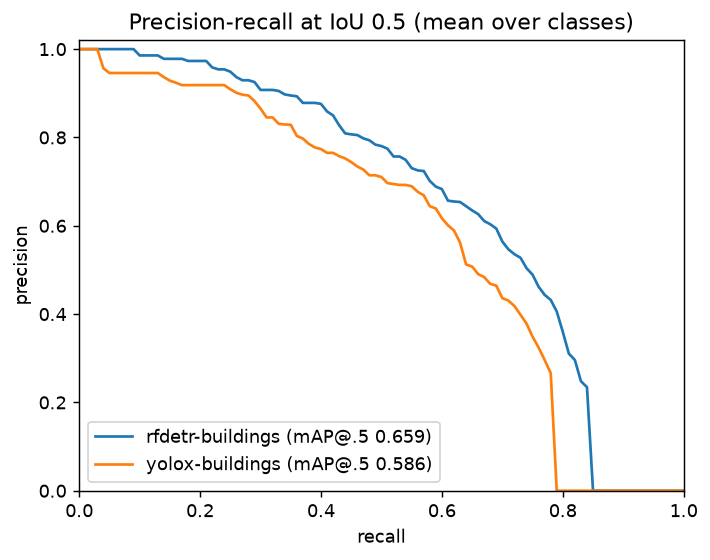
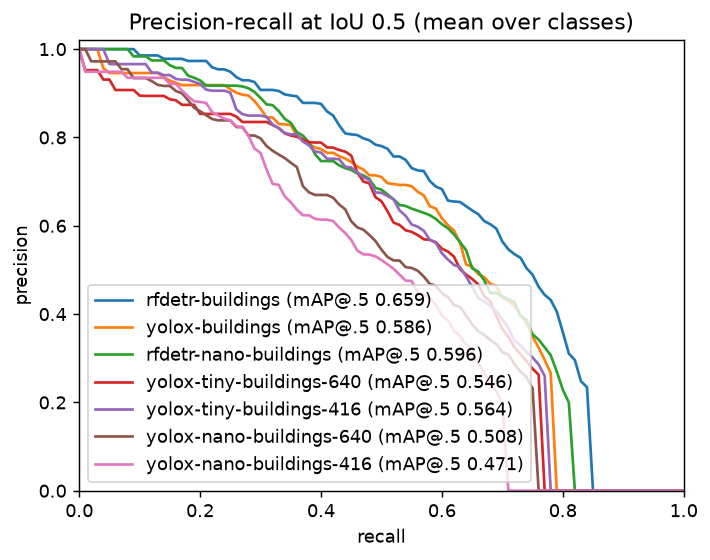
L3: SpaceNet fine-tunes and verdict for the lightweight models; L6 planned (#20)
* L3: SpaceNet fine-tunes of tiny, nano and RF-DETR Nano; verdict; L6 (publishing) planned

Claude-Session: https://claude.ai/code/session_01Xkm7aLAijmSFtDHZcGB5nX

* ADR-0014: L3 verdict

Claude-Session: https://claude.ai/code/session_01Xkm7aLAijmSFtDHZcGB5nX

Changed region(s): [[0.093, 0.0607, 0.9606, 0.8804], [0.1239, 0.8196, 0.1859, 0.85]]

diff --git a/stages/detector/backends.py b/stages/detector/backends.py
@@ -64,18 +64,17 @@ def load_yolox_backend(device: str, variant: str = "s") -> Backend:
     return load_yolox(device, f"/models/yolox_{variant}.onnx")
 
 
-def load_yolox_buildings(device: str) -> Backend:
-    """YOLOX-s fine-tuned on SpaceNet buildings (`make train-yolox`), exported to ONNX."""
+def load_yolox_buildings(device: str, run: str = "yolox-spacenet") -> Backend:
+    """A YOLOX fine-tuned on SpaceNet buildings (`make train-yolox`), exported to ONNX."""
     from yolox_onnx import load_yolox
 
-    return load_yolox(device, os.environ.get(
-        "YOLOX_BUILDINGS_ONNX", "/weights/yolox-spacenet/yolox_buildings.onnx"), ["building"])
+    return load_yolox(device, f"/weights/{run}/yolox_buildings.onnx", ["building"])
 
 
-def load_rfdetr_buildings(device: str) -> Backend:
-    """RF-DETR Small fine-tuned on SpaceNet buildings (`make train-rfdetr`)."""
-    return load_rfdetr(device, os.environ.get(
-        "RFDETR_BUILDINGS_WEIGHTS", "/weights/rfdetr-spacenet/checkpoint_best_total.pth"))
+def load_rfdetr_buildings(device: str, run: str = "rfdetr-spacenet",
+                          size: str = "Small") -> Backend:
+    """An RF-DETR fine-tuned on SpaceNet buildings (`make train-rfdetr`)."""
+    return load_rfdetr(device, f"/weights/{run}/checkpoint_best_total.pth", size)
 
 
 # Factories taking the device, so a backend is only loaded (and its dependencies imported)
@@ -83,6 +82,7 @@ def load_rfdetr_buildings(device: str) -> Backend:
 BACKENDS: dict[str, Callable[[str], Backend]] = {
     "stub": lambda device: stub_detect, "rfdetr": load_rfdetr, "yolox": load_yolox_backend,
     "rfdetr-nano": lambda device: load_rfdetr(device, size="Nano"),
-    "yolox-nano": lambda device: load_yolox_backend(device, "nano"),
     "yolox-tiny": lambda device: load_yolox_backend(device, "tiny"),
-    "rfdetr-buildings": load_rfdetr_buildings, "yolox-buildings": load_yolox_buildings}
+    "rfdetr-buildings": load_rfdetr_buildings, "yolox-buildings": load_yolox_buildings,
+    "rfdetr-nano-buildings": lambda d: load_rfdetr_buildings(d, "rfdetr-spacenet-nano", "Nano"),
+    "yolox-tiny-buildings": lambda d: load_yolox_buildings(d, "yolox-spacenet-tiny-416")}

diff --git a/scripts/yolox_exp.py b/scripts/yolox_exp.py
@@ -1,4 +1,7 @@
-"""YOLOX-s experiment for SpaceNet buildings (one class), used by `make train-yolox`.
+"""YOLOX experiment for SpaceNet buildings (one class), used by `make train-yolox`.
+
+`YOLOX_VARIANT` (s, tiny) and `YOLOX_SIZE` (input pixels) pick the model; the shapes
+are those of the official experiment files. Output goes to `<out>/yolox-spacenet[-variant-size]`.
 
 YOLOX reads `<data_dir>/train2017`, `<data_dir>/val2017` and `<data_dir>/annotations/*.json`,
 so this builds that layout from the COCO files of `geopipe spacenet-prepare` with symlinks.
@@ -12,15 +15,26 @@ from yolox.exp import Exp as BaseExp
 
 SRC = os.environ.get("SPACENET_COCO", "/data/spacenet/coco")
 STAGE = "/tmp/yolox_data"
+VARIANT = os.environ.get("YOLOX_VARIANT", "s")
+SIZE = int(os.environ.get("YOLOX_SIZE", "640"))
+SHAPES = {"s": (0.33, 0.50), "tiny": (0.33, 0.375)}  # depth, width
+
+
+EXP_NAME = "yolox-spacenet" + ("" if (VARIANT, SIZE) == ("s", 640) else f"-{VARIANT}-{SIZE}")
 
 
 class Exp(BaseExp):
     def __init__(self):
         super().__init__()
-        self.depth, self.width, self.num_classes = 0.33, 0.50, 1  # YOLOX-s
+        self.depth, self.width = SHAPES[VARIANT]
+        self.num_classes = 1
+        self.input_size = self.test_size = (SIZE, SIZE)
+        self.random_size = (SIZE // 32 - 4, SIZE // 32 + 4)  # multi-scale range, in strides
+        if VARIANT != "s":  # augmentation of the official tiny experiment
+            self.mosaic_scale, self.enable_mixup = (0.5, 1.5), False
         self.max_epoch, self.no_aug_epochs, self.eval_interval = 60, 10, 5
         self.data_dir, self.train_ann, self.val_ann = STAGE, "train.json", "valid.json"
-        self.exp_name = "yolox-spacenet"
+        self.exp_name = EXP_NAME
         self.output_dir = os.environ.get("YOLOX_OUT", "/data/models")
         shutil.rmtree(STAGE, ignore_errors=True)
         os.makedirs(f"{STAGE}/annotations")

diff --git a/scripts/train_rfdetr.py b/scripts/train_rfdetr.py
@@ -1,4 +1,4 @@
-"""Fine-tune RF-DETR Small on the SpaceNet COCO files from `make spacenet-data`.
+"""Fine-tune RF-DETR (Small or Nano) on the SpaceNet COCO files from `make spacenet-data`.
 
 Run it in the GPU detector image (see `make train-rfdetr`). Weights are written to
 `<out>/checkpoint_best_total.pth`.
@@ -6,18 +6,20 @@ Run it in the GPU detector image (see `make train-rfdetr`). Weights are written 
 
 import argparse
 
-from rfdetr import RFDETRSmall
+import rfdetr
 
 
 def main() -> None:
     p = argparse.ArgumentParser()
     p.add_argument("--data", default="/data/spacenet/coco")
-    p.add_argument("--out", default="/data/models/rfdetr-spacenet")
+    p.add_argument("--variant", default="Small", choices=["Small", "Nano"])
+    p.add_argument("--out")
     p.add_argument("--epochs", type=int, default=20)
     p.add_argument("--batch-size", type=int, default=8)
     a = p.parse_args()
-    model = RFDETRSmall()
-    model.train(dataset_dir=a.data, output_dir=a.out, epochs=a.epochs, batch_size=a.batch_size,
+    out = a.out or "/data/models/rfdetr-spacenet" + ("-nano" if a.variant == "Nano" else "")
+    model = getattr(rfdetr, f"RFDETR{a.variant}")()
+    model.train(dataset_dir=a.data, output_dir=out, epochs=a.epochs, batch_size=a.batch_size,
                 class_names=["building"], tensorboard=False)
 
 

diff --git a/scripts/export_yolox_onnx.py b/scripts/export_yolox_onnx.py
@@ -1,4 +1,4 @@
-"""Export a fine-tuned YOLOX checkpoint to ONNX with the raw head output (1, 8400, 5 + classes).
+"""Export a fine-tuned YOLOX checkpoint to ONNX with the raw head output (1, anchors, 5 + classes).
 
 YOLOX's own exporter calls `torch.onnx._export`, which current torch no longer has. The decode
 (grid offsets, NMS) stays outside the graph, in stages/detector/yolox_onnx.py.
@@ -16,11 +16,12 @@ def main() -> None:
     p.add_argument("ckpt")
     p.add_argument("out")
     a = p.parse_args()
-    model = get_exp(a.exp, None).get_model()
+    exp = get_exp(a.exp, None)
+    model = exp.get_model()
     model.load_state_dict(torch.load(a.ckpt, map_location="cpu", weights_only=False)["model"])
     model.eval()
     model.head.decode_in_inference = False
-    torch.onnx.export(model, torch.zeros(1, 3, 640, 640), a.out, input_names=["images"],
+    torch.onnx.export(model, torch.zeros(1, 3, *exp.test_size), a.out, input_names=["images"],
                       output_names=["output"], opset_version=17, dynamo=False)
 
 

diff --git a/stages/detector/main.py b/stages/detector/main.py
@@ -32,7 +32,7 @@ def detect_tile(r, s3, backends: dict[str, Backend], tile: Tile) -> None:
 
 if __name__ == "__main__":
     logging.basicConfig(level=logging.INFO)
-    default = "stub,rfdetr,yolox,yolox-tiny,yolox-nano,rfdetr-nano"
+    default = "stub,rfdetr,yolox,yolox-tiny,rfdetr-nano"
     names = os.environ.get("DETECTOR_MODELS", default).split(",")
     unknown = [n for n in names if n not in BACKENDS]
     if unknown:

diff --git a/tests/stack/test_stack.py b/tests/stack/test_stack.py
@@ -61,7 +61,7 @@ def test_round_trip_boxes_land_on_the_drawn_rectangles(stack):
             f.write(body)
 
 
-@pytest.mark.parametrize("model", ["rfdetr", "yolox", "yolox-tiny", "yolox-nano", "rfdetr-nano"])
+@pytest.mark.parametrize("model", ["rfdetr", "yolox", "yolox-tiny", "rfdetr-nano"])
 def test_each_model_finds_both_cats_in_a_real_photo(stack, model):
     r, s3, _ = stack
     key = upload_photo_tif(s3)

diff --git a/docs/benchmarks/spacenet-khartoum.md b/docs/benchmarks/spacenet-khartoum.md
@@ -1,9 +1,26 @@
-# SpaceNet Khartoum buildings: fine-tuned RF-DETR Small and YOLOX-s
+# SpaceNet Khartoum buildings: fine-tuned RF-DETR, YOLOX and their lightweight variants
 
-| model | mAP@[.5:.95] | mAP@.5 | AR@100 | P@.5 | R@.5 | F1@.5 | median latency s/img | mean detect s/img (4 tiles) | detections |
+Held-out 30 tiles, 510 buildings, CPU detector, one worker, run 2026-11-14 (L3, ADR-0014). "detect s/img" is the model's time for one 650 px image, which is 4 tiles.
+
+| model | mAP@[.5:.95] | mAP@.5 | AR@100 | P@.5 | R@.5 | F1@.5 | detect s/img, 4 threads | detect s/img, 1 thread | detections |
 |---|---|---|---|---|---|---|---|---|---|
-| rfdetr-buildings | 0.327 | 0.659 | 0.485 | 0.627 | 0.657 | 0.642 | 1.07 | 0.85 | 7794 |
-| yolox-buildings | 0.303 | 0.586 | 0.467 | 0.689 | 0.551 | 0.612 | 0.61 | 0.31 | 1922 |
+| rfdetr-buildings (Small) | 0.327 | 0.659 | 0.485 | 0.627 | 0.657 | 0.642 | 0.85 | 2.47 | 7795 |
+| rfdetr-nano-buildings | 0.294 | 0.596 | 0.452 | 0.624 | 0.582 | 0.602 | 0.47 | 1.31 | 8955 |
+| yolox-buildings (s, 640) | 0.303 | 0.586 | 0.467 | 0.689 | 0.551 | 0.612 | 0.31 | 0.94 | 1922 |
+| yolox-tiny-buildings-640 | 0.280 | 0.546 | 0.449 | 0.632 | 0.512 | 0.566 | 0.19 | 0.58 | 1818 |
+| yolox-tiny-buildings-416 | 0.270 | 0.564 | 0.436 | 0.712 | 0.465 | 0.562 | 0.10 | 0.25 | 2006 |
+| yolox-nano-buildings-640 | 0.247 | 0.508 | 0.426 | 0.667 | 0.412 | 0.509 | 0.07 | 0.15 | 2100 |
+| yolox-nano-buildings-416 | 0.209 | 0.471 | 0.370 | 0.622 | 0.375 | 0.468 | 0.05 | 0.08 | 2880 |
+
+The model names are those of the benchmark run; only `yolox-tiny-buildings` (the 416 variant) and `rfdetr-nano-buildings` are kept as backends, see "Verdict".
+
+## Verdict (ADR-0014 bar: at least 90% of YOLOX-s's mAP@.5, so 0.527 or more, and at least 2x faster)
+
+- YOLOX-tiny at 416 px passes: 0.564 mAP@.5 and 3.1x (4 threads) to 3.8x (1 thread) faster than YOLOX-s. Kept as `yolox-tiny-buildings`.
+- YOLOX-tiny at 640 px has 0.546 but is only 1.6x faster. Dropped; at 416 px it is both faster and has the higher mAP@.5 (it is lower on mAP@[.5:.95], 0.270 against 0.280).
+- YOLOX-nano misses on accuracy at both sizes (0.508 and 0.471; recall 0.41 and 0.38). Dropped, along with its COCO backend.
+- RF-DETR Nano passes on accuracy (0.596, above YOLOX-s's 0.586) but is slower than YOLOX-s (0.47 against 0.31 s/img), so it fails the speed half of a bar written against YOLOX-s. It is 1.8x faster than RF-DETR Small at 90% of its mAP@.5 and is kept for now as the quality-leaning small model; whether it stays is an open decision.
+- End to end through the whole pipeline (one detector, 4 threads, 48-tile mosaic, so including the slicer and postprocess): YOLOX-s 10.1 tiles/s, YOLOX-tiny 416 18.6, RF-DETR Nano 7.1, RF-DETR Small 3.4.
 
 - Detections were collected at confidence >= 0.05 (needed for mAP). P, R and F1 use detections
   with score >= 0.5 and IoU >= 0.5.
@@ -17,6 +34,7 @@
 ## How this was produced
 
 - Data: 300 tiles of SpaceNet 2 AOI 5 (Khartoum), 650x650 16-bit PS-RGB, split by tile number into 240 train, 30 valid and 30 test (`make spacenet-data`). Test is the 30 held-out tiles scored above, 510 buildings.
+- RF-DETR Nano: `make train-rfdetr VARIANT=Nano`, same settings as Small. YOLOX-tiny and -nano: `make train-yolox VARIANT=tiny|nano SIZE=416|640`, same recipe as YOLOX-s with the augmentation of the official tiny and nano experiments (mosaic scale 0.5 to 1.5, no mixup), 60 epochs, about 9 to 12 minutes each. The nano variant is no longer supported by the scripts.
 - RF-DETR Small: `make train-rfdetr`, from the COCO checkpoint, single class `building`, 30 epochs, batch size 8, about 7 minutes on the RTX 3080 Ti Laptop. Best validation mAP (EMA weights) 0.242.
 - YOLOX-s: `make train-yolox`, YOLOX's own trainer from the COCO checkpoint, one class, 60 epochs (last 10 without mosaic), batch size 16, fp16, about 12 minutes. Validation AP@[.5:.95] about 0.24 at the end. Exported to ONNX (raw head, 1 class) and run by the same ONNX Runtime backend as the COCO model.
 - Scoring: `make bench-spacenet` runs the held-out GeoTIFFs through the whole pipeline (CPU detector, one image at a time) and scores the GeoJSON pixel boxes against boxes converted from the footprints. Both models see identical inputs.

diff --git a/README.md b/README.md
@@ -83,7 +83,7 @@ On a machine with an NVIDIA GPU and the NVIDIA container runtime, `make up-gpu` 
 
 CPU throughput: the detector uses `DETECTOR_THREADS` threads per worker (default 4; more was not faster on a 20-thread CPU), and `docker compose up -d --scale detector=2` runs replicas that share the tile stream. With a stub model on real imagery the pipeline went from 13.5 to 33.5 tiles/s with one detector and 48 with two, after the slicer started writing uncompressed PNG tiles and overlapping encode and upload ([ADR-0014](docs/adr/0014-lightweight-cpu-detector.md)). Do not scale the CPU and GPU detectors together.
 
-Lightweight models for CPU use: `yolox-tiny`, `yolox-nano` (ONNX Runtime, 416 px input) and `rfdetr-nano` are enabled by default beside `rfdetr` (the default choice) and `yolox`. On 200 COCO images, `rfdetr-nano` keeps most of RF-DETR Small's accuracy (mAP@.5 0.71 against 0.75) at about 1.8x the speed, while `yolox-tiny` and `yolox-nano` are 3.5x and 7x faster than `yolox` but lose 0.09 and 0.14 mAP@[.5:.95] ([report](docs/benchmarks/coco-val-200.md)). COCO is a sanity check only: which of them ship is decided on SpaceNet fine-tunes (slice L3 in [`docs/SLICES.md`](docs/SLICES.md)).
+Lightweight models for CPU use: `yolox-tiny` (ONNX Runtime, 416 px input) and `rfdetr-nano` are enabled by default beside `rfdetr` (the default choice) and `yolox`. Fine-tuned on SpaceNet buildings and run on 4 CPU threads, `yolox-tiny-buildings` reaches 0.56 mAP@.5 against 0.59 for `yolox-buildings` at about a third of the model time, and `rfdetr-nano-buildings` reaches 0.60 against 0.66 for `rfdetr-buildings` in about half. YOLOX-nano was tried and dropped: at 0.47 to 0.51 mAP@.5 it missed the bar. Details in [the SpaceNet report](docs/benchmarks/spacenet-khartoum.md) and [ADR-0014](docs/adr/0014-lightweight-cpu-detector.md).
 
 Duplicates across overlapping tiles are removed by class-wise NMS. An object larger than the overlap zone can still be split. Boxes only (no oriented boxes or segmentation).
 
@@ -93,14 +93,16 @@ Duplicates across overlapping tiles are removed by class-wise NMS. An object lar
 
 ### SpaceNet buildings (fine-tuned)
 
-`make spacenet-data` fetches 300 SpaceNet 2 Khartoum tiles (730 MB, CC BY-SA 4.0, kept out of git), `make train-rfdetr` and `make train-yolox` fine-tune on 240 of them on the GPU (about 7 and 12 minutes), and `make bench-spacenet` scores the other 30 through the full pipeline. The COCO weights score 0 here because they have no building class.
+`make spacenet-data` fetches 300 SpaceNet 2 Khartoum tiles (730 MB, CC BY-SA 4.0, kept out of git), `make train-rfdetr` and `make train-yolox` (`VARIANT=` picks the model size) fine-tune on 240 of them on the GPU (about 7 and 12 minutes), and `make bench-spacenet` scores the other 30 through the full pipeline. The COCO weights score 0 here because they have no building class.
 
-| model | mAP@[.5:.95] | mAP@.5 | F1@.5 | detector s/image (CPU) |
+| model | mAP@[.5:.95] | mAP@.5 | F1@.5 | detector s/image (CPU, 4 threads) |
 |---|---|---|---|---|
 | RF-DETR Small, fine-tuned | 0.327 | 0.659 | 0.642 | 0.85 |
+| RF-DETR Nano, fine-tuned | 0.294 | 0.596 | 0.602 | 0.47 |
 | YOLOX-s, fine-tuned | 0.303 | 0.586 | 0.612 | 0.31 |
+| YOLOX-tiny 416, fine-tuned | 0.270 | 0.564 | 0.562 | 0.10 |
 
-Each 650 px image is cut into 4 overlapping 640 px tiles, so per tile the detector takes about a quarter of the last column. One city and one run per model; details and caveats in [`docs/benchmarks/spacenet-khartoum.md`](docs/benchmarks/spacenet-khartoum.md) and [ADR-0010](docs/adr/0010-spacenet-benchmark-dataset.md). Enable the models with `DETECTOR_MODELS=stub,rfdetr,yolox,rfdetr-buildings,yolox-buildings`.
+Each 650 px image is cut into 4 overlapping 640 px tiles, so per tile the detector takes about a quarter of the last column. One city and one run per model; details and caveats in [`docs/benchmarks/spacenet-khartoum.md`](docs/benchmarks/spacenet-khartoum.md) and [ADR-0010](docs/adr/0010-spacenet-benchmark-dataset.md). Enable the models with `DETECTOR_MODELS=stub,rfdetr,yolox,rfdetr-buildings,yolox-buildings,rfdetr-nano-buildings,yolox-tiny-buildings`.
 
 ## GDAL + Python + numpy 2 base images
 

diff --git a/docs/adr/0014-lightweight-cpu-detector.md b/docs/adr/0014-lightweight-cpu-detector.md
@@ -15,6 +15,7 @@ On CPU, YOLOX-s takes about 65 ms per tile and RF-DETR Small about 180 ms (forwa
 - **Hardware.** x86-64 only for now. Speed is measured at 1 and 4 threads as a proxy for small servers. ARM is deferred (the GDAL base image is amd64-only, and INT8 behaviour differs by CPU).
 - **Pipeline overhead is in scope and goes first.** The slicer's PNG encode (56 ms of about 72 ms per tile at the default level) caps the pipeline at about 13.5 tiles/s, so faster models show no end-to-end gain until it is fixed. Tiles are written uncompressed (PNG level 0, 17 ms), which amends ADR-0002's format only in compression level. `DETECTOR_THREADS` (default 4, measured: more is no faster) and detector replicas provide throughput.
 - **Torch-free image last.** The CPU path already runs on ONNX Runtime; an ONNX-only detector image (RF-DETR exported to ONNX) drops the 3.3 GB torch image to about 0.5 GB.
+- **Publishing.** Fine-tuned weights that pass the bar go to Hugging Face (model cards, versioned files), not to GitHub releases; the repo keeps the scripts and links to them. Licence CC BY-SA 4.0 with SpaceNet attribution: the base models are Apache-2.0, but whether weights trained on CC BY-SA data are a derivative of it is unsettled, so the cautious reading is used. Slice L6.
 - **Quantisation** is ORT static QDQ INT8, per-channel, calibrated on tiles from the target data. Dynamic quantisation does not speed up convolutions.
 - **Input size** is decided from data: nano and tiny are tried at 416 and at 640.
 
@@ -25,6 +26,10 @@ Stub model, real imagery, 48 tiles: 13.5 tiles/s before; 22.6 with PNG level 0 (
 ## Measured after L2 (2026-11-14, COCO-200, zero-shot)
 
 mAP@[.5:.95] and model time per image: RF-DETR Small 0.566, 0.18 s; RF-DETR Nano 0.534, 0.10 s; YOLOX-s 0.440, 0.07 s; YOLOX-tiny 0.348, 0.02 s; YOLOX-nano 0.303, 0.01 s. All five are registered; slice L3 applies the bar on SpaceNet and removes those that miss it. The YOLOX backend reads its input size from the ONNX model.
+
+## Verdict (L3, 2026-11-14, SpaceNet 30 held-out tiles, 4 threads)
+
+Kept: `yolox-tiny-buildings` (416 px input; mAP@.5 0.564, 3.1x faster than YOLOX-s at 4 threads and 3.8x at 1); the INT8 work in L4 starts from it. Input size: 416 beat 640 for tiny on speed and on mAP@.5. Removed: YOLOX-nano (0.508 and 0.471; recall too low) and YOLOX-tiny at 640 (1.6x faster only), including the nano COCO backend and weights. RF-DETR Nano (0.596, 1.8x faster than RF-DETR Small, but slower than YOLOX-s) fails the speed rule as written against YOLOX-s; it is kept as the small quality-leaning model, pending a decision. Full table: `docs/benchmarks/spacenet-khartoum.md`.
 
 ## Excluded
 

diff --git a/docs/SLICES.md b/docs/SLICES.md
@@ -309,11 +309,13 @@ An interactive dashboard is out of scope here. indah (the owner's reactive UI fr
 #### Unit
 - Decoder grid is correct at 416 and 640 (existing decode tests parametrised by size).
 
-## L3: SpaceNet fine-tunes and the verdict
+## L3: SpaceNet fine-tunes and the verdict (done)
 
 **Delivers:** the data that decides which models ship
 
 **Build plan:** fine-tune nano, tiny and RF-DETR Nano on the existing SpaceNet split; benchmark at 416 and 640 inputs; apply the ADR-0014 bar; remove backends that miss it; record the table in `docs/benchmarks/` and update ADR-0014 with the result.
+
+**Result:** YOLOX-tiny at 416 px passes (0.564 mAP@.5, 3.1x faster than YOLOX-s); tiny at 640, and nano at both sizes, are removed; RF-DETR Nano passes on accuracy but not on speed against YOLOX-s and is kept pending a decision. See `docs/benchmarks/spacenet-khartoum.md`.
 
 **Demo:** a report table of mAP@.5, F1, ms per tile (1 and 4 threads) and end-to-end tiles/s for every candidate, each marked pass or fail against the bar.
 
@@ -359,3 +361,21 @@ An interactive dashboard is out of scope here. indah (the owner's reactive UI fr
 
 #### Unit
 - The ONNX RF-DETR post-processing matches the torch output on a stored fixture tensor.
+
+## L6: Publish the weights on Hugging Face
+
+**Delivers:** the fine-tuned models that passed the L3/L4 bar, downloadable by others
+
+**Build plan:** `scripts/publish_model.py` uploads one model (ONNX, or the RF-DETR checkpoint) to a Hugging Face model repo with a generated model card; card template filled from the benchmark report (metrics, speed at 1 and 4 threads, training data and split, one-city caveat, the commit and command that produced it); licence CC BY-SA 4.0 with SpaceNet attribution and a link to the source; the GitHub README links to the model pages. Only models that passed the bar are published. Nothing derived from COCO is uploaded (ADR-0010).
+
+**Demo:** `hf_hub_download` of the published ONNX file into a clean directory, then a job on `data/models` weights from that file reproduces the benchmark mAP@.5 within 0.005.
+
+**Rests on assumptions:** CC BY-SA 4.0 for the fine-tuned weights is the cautious reading of SpaceNet's licence (whether weights are a derivative of training data is unsettled); an Apache-2.0 release is not planned.
+
+### Test plan
+
+#### End-to-end
+- Download from the Hub and run `make bench-spacenet` on it; mAP@.5 matches the model card.
+
+#### Unit
+- The model card renders with the licence, attribution and every metric from `results.json`; the script refuses a model that is not marked as passing.

diff --git a/AGENTS.md b/AGENTS.md
@@ -2,7 +2,7 @@
 
 GeoTIFF in S3 → slicer → detector → postprocess → georeferenced GeoJSON, as three workers on Valkey Streams plus an S3-API object store (SeaweedFS), run with Docker Compose. It is meant to become a hosted service later, so contracts carry `tenant_id` and stay stateless.
 
-Build order and acceptance tests: `docs/SLICES.md` (its end-to-end lines are the acceptance criteria). Plan: `docs/PLAN.md`. Decisions: `docs/adr/`. Status: V1-V8 and V5b merged (V5 = YOLOX plus a COCO benchmark, V6 = HTTP API, V7 = GPU detector, V5b = SpaceNet fine-tunes, V8 = web UI on indah). Next: the lightweight CPU detector series (L1, L2 done; L3-L5 remain) (`docs/SLICES.md`, ADR-0014); other open cards are Postgres job records, identity-provider sign-in. Work is tracked on the Pandan board `GEO` (`pandan board use GEO`); move cards as slices land. Trust the code over the docs where they disagree, and fix the doc.
+Build order and acceptance tests: `docs/SLICES.md` (its end-to-end lines are the acceptance criteria). Plan: `docs/PLAN.md`. Decisions: `docs/adr/`. Status: V1-V8 and V5b merged (V5 = YOLOX plus a COCO benchmark, V6 = HTTP API, V7 = GPU detector, V5b = SpaceNet fine-tunes, V8 = web UI on indah). Next: the lightweight CPU detector series (L1-L3 done; L4-L6 remain) (`docs/SLICES.md`, ADR-0014); other open cards are Postgres job records, identity-provider sign-in. Work is tracked on the Pandan board `GEO` (`pandan board use GEO`); move cards as slices land. Trust the code over the docs where they disagree, and fix the doc.
 
 ## Layout
 - `libs/geopipe/`: shared contracts and helpers; must install on 3.12 and 3.13. Only `raster.py`, `finalise.py`, `viz.py` and `bench.py` need GDAL, matplotlib or pycocotools (`viz` and `bench` extras); the detector must never import them.

diff --git a/docs/benchmarks/coco-val-200.md b/docs/benchmarks/coco-val-200.md
@@ -16,7 +16,7 @@ non-crowd annotation. COCO images are not stored in this repository (see ADR-001
 Re-run on 2026-11-14 after the lightweight models were added (ADR-0014, slice L2), with the L1 slicer
 (PNG level 0), so latencies are lower than the first run's (RF-DETR 0.36 to 0.26 s, YOLOX-s 0.21 to 0.16 s
 median). The other columns for the first two rows match the first run. These are COCO scores with zero-shot
-weights; the shipping decision is made on SpaceNet (slice L3).
+weights; the shipping decision was made on SpaceNet (slice L3), where YOLOX-nano missed the bar and was removed; its row is kept as measured.
 
 ![precision-recall](coco-val-200/pr_curves.png)
 ![box tightness and latency](coco-val-200/latency_iou.png)
